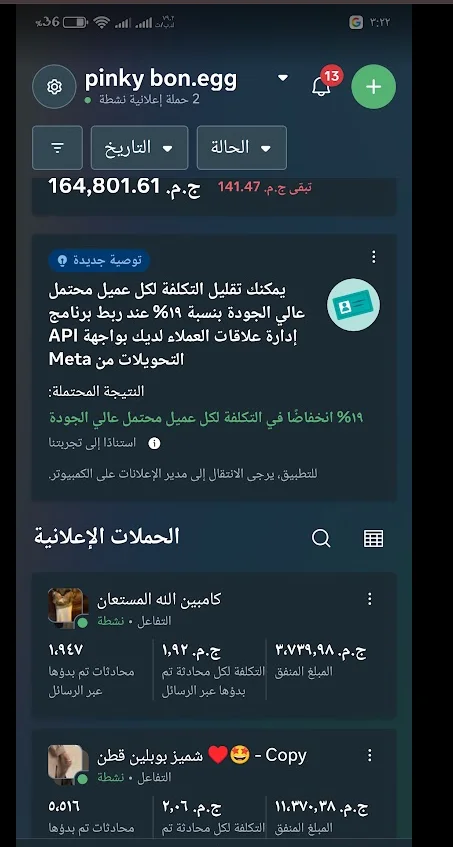
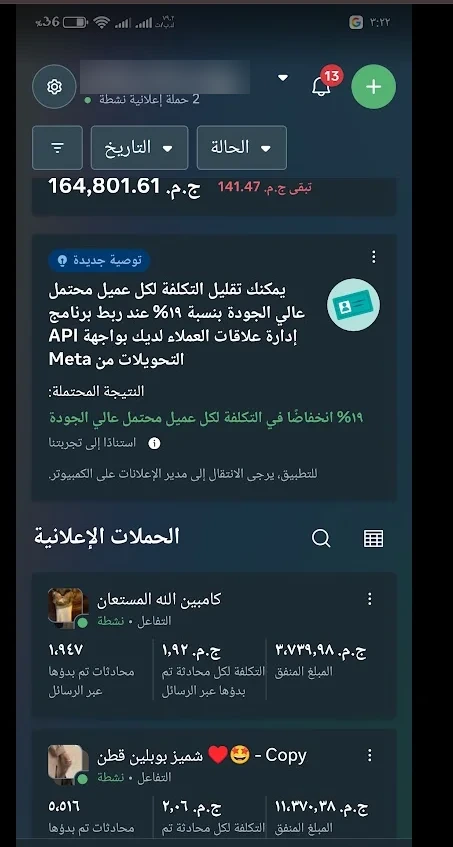
Revert the hero experiment, and put a face on the projects orbit
THE HERO GOES BACK TO ONE FLAT PHOTOGRAPH. The two-layer split and the sway
that moved the portrait against the dashboards are reverted whole, assets and
all, on Mahmoud's instruction: he wanted the head to turn, that needs four
photographs of a head and there is one, and a static composition was the right
answer rather than a convincing-looking wrong one. The pre-existing scroll
drift is untouched — it was never part of this.

THE ORBIT AND THE FOOTER HELD A PHOTOGRAPH OF HIM BEHIND A FAN OF DOLLAR
NOTES. He picked it on 2026-09-15 after being told what it cost him — it is
the centre of the section that says "brands I worked on from the inside" and
it hid his face behind cash — and he removed it on 2026-09-19. The file went
with it; `orbit-centre.webp` keeps its name and is now the standing portrait
he sent. Three things had to move with it: the image is larger in both places,
the bottom fade is gone (it existed to dissolve a cut across his torso and was
eating his shoes), and RING_SHIFT drops from 0.16 to -0.06 — 16% below centre
put the sweep at his chest when the photograph was waist-up, and at his shins
once it was a full figure.

AND THE AD ACCOUNT NAME IS OUT OF THE pinky CAPTURE. Blurred in the image, and
removed from the three places the copy repeated it: the caption under the
shot, the lightbox caption and the button's accessible name. A blurred name
with the name printed beneath it is not a redaction. Every figure in that
[…]

Changed region(s): [[0.1545, 0.0614, 0.5563, 0.1228]]

diff --git a/src/styles/index.css b/src/styles/index.css
@@ -214,8 +214,11 @@
    */
   .orbit {
     position: relative;
-    /* Tall enough for the figure in the middle, not just for the ring. */
-    height: 19rem;
+    /* Tall enough for the figure in the middle, not just for the ring. The
+       box and the figure inside it were both raised on 2026-09-19, when the
+       photograph became a standing full-length portrait rather than a
+       waist-up one and read too small at the old size. */
+    height: 22rem;
     /* The cells are transformed, not laid out, so they cannot push the box
        wider; nothing here can cause a horizontal scrollbar. */
     overflow: hidden;
@@ -280,10 +283,10 @@
 
   @media (min-width: 768px) {
     .orbit {
-      height: 23rem;
+      height: 27rem;
     }
     .orbit-photo {
-      height: 92%;
+      height: 96%;
     }
     .orbit-item {
       width: 4.5rem;
@@ -309,16 +312,16 @@
     /* Below the cells. Nothing orbits behind him any more. */
     z-index: 1;
     transform: translateX(-50%);
-    height: 78%;
+    height: 90%;
     width: auto;
     object-fit: contain;
     pointer-events: none;
     user-select: none;
-    /* The cut-out ends in a straight line across his torso. Fading the last
-       fifth of it dissolves that edge into the page instead of leaving a
-       rectangle floating in the middle of the section. */
-    -webkit-mask-image: linear-gradient(to top, transparent 0, #000 20%);
-    mask-image: linear-gradient(to top, transparent 0, #000 20%);
+    /* NO MASK HERE ANY MORE. There used to be a gradient fading the last
+       fifth of the photograph, because the old cut-out ended in a straight
+       line across his torso and needed dissolving into the page. The
+       photograph is a full standing figure now — it ends at his shoes, which
+       is an edge the eye expects — and the fade was eating his feet. */
   }
 
   /**
@@ -588,70 +591,6 @@
   :root[data-theme='dark'] .hero-photo {
     mix-blend-mode: normal;
     filter: brightness(0.9) contrast(1.02);
-  }
-
-  /**
-   * THE PORTRAIT BREATHES. The dashboards do not.
-   *
-   * Two nested elements carrying two independent cycles, because one cycle
-   * on one element is what makes an animation look like an animation: the
-   * eye finds the period and then cannot unsee it. A 23s sway and a 5.7s
-   * breath share no common multiple worth the name, so the pair only repeats
-   * itself every few minutes.
-   *
-   * THE SWAY pivots at `52% 96%` — the bottom of the figure, not its middle.
-   * A rotation about the bottom moves the head several pixels while the chest
-   * barely moves at all, which is how a person standing still actually reads.
-   * Every value is small on purpose: 0.32deg, a third of one percent. It is
-   * meant to be noticed as life rather than as movement, and the first and
-   * last keyframes are identical so the loop has no seam.
-   *
-   * WHAT THIS IS NOT. It cannot turn his head: there is one photograph of him
-   * and a photograph has one angle. Turning the head needs four separate
-   * exports of the head, which do not exist yet — see the note in Hero.tsx.
-   */
-  .hero-alive {
-    transform-origin: 52% 96%;
-    animation: hero-sway 23s cubic-bezier(0.37, 0, 0.63, 1) infinite;
-    will-change: transform;
-  }
-
-  .hero-breathe {
-    transform-origin: 52% 100%;
-    animation: hero-breathe 5.7s ease-in-out infinite;
-    will-change: transform;
-  }
-
-  @keyframes hero-sway {
-    /* rest */
-    0% { transform: rotate(0deg) translate3d(0, 0, 0); }
-    /* toward his right, and a touch up with it */
-    16% { transform: rotate(0.32deg) translate3d(0.34%, -0.1%, 0); }
-    /* back through the middle, not quite settling */
-    31% { transform: rotate(0.06deg) translate3d(0.06%, 0.02%, 0); }
-    /* toward his left */
-    48% { transform: rotate(-0.3deg) translate3d(-0.32%, -0.08%, 0); }
-    /* back through the middle again */
-    63% { transform: rotate(-0.05deg) translate3d(-0.04%, 0.04%, 0); }
-    /* the smallest settle downward, the way someone glances down */
-    80% { transform: rotate(-0.08deg) translate3d(-0.02%, 0.42%, 0); }
-    /* and home, identical to 0% so the loop cannot show a seam */
-    100% { transform: rotate(0deg) translate3d(0, 0, 0); }
-  }
-
-  @keyframes hero-breathe {
-    0% { transform: scale(1); }
-    45% { transform: scale(1.006); }
-    100% { transform: scale(1); }
-  }
-
-  /* Motion off means motion off: the portrait sits at its rest position. */
-  @media (prefers-reduced-motion: reduce) {
-    .hero-alive,
-    .hero-breathe {
-      animation: none;
-      transform: none;
-    }
   }
   .hero-blend-s {
     background: linear-gradient(to right, rgb(var(--c-cream)) 0%, transparent 18%);

diff --git a/src/components/Hero.tsx b/src/components/Hero.tsx
@@ -82,60 +82,19 @@ export default function Hero() {
           style={{ objectPosition: `${hero.focalPoint.mobile.x}% ${hero.focalPoint.mobile.y}%` }}
         />
 
-        {/*
-          TWO LAYERS ON ONE CANVAS, and only one of them moves.
-
-          The dashboards are the credibility of this page. They hold still.
-          Mahmoud is a separate transparent export sitting on a copy of the
-          same 1708x921 canvas, so both images take the same `object-cover`
-          crop and the same object-position and stay in register at every
-          width without a single breakpoint of arithmetic.
-
-          The scroll parallax moves the WRAPPER, so it still moves the whole
-          composition together exactly as it did when this was one flat image.
-          The sway and the breath live on the portrait alone.
-
-          WHAT IS NOT HERE, AND WHY. Mahmoud asked for the head to turn — front,
-          right, left, down. That needs four photographs of his head, and there
-          is one. Rotating a single portrait to fake a turn does not look like a
-          turn, it looks like a sticker being tilted, so it is not done here.
-          The four positions become possible the moment four separate
-          transparent exports of the head exist at this resolution.
-        */}
         <div className="relative hidden h-[clamp(20rem,44vw,38rem)] overflow-hidden lg:block">
-          <motion.div
-            className="absolute inset-x-0 -top-[6%] h-[112%]"
-            style={{ y: reduce ? 0 : photoY }}
-          >
-            <img
-              src={hero.image.desktopBg}
-              alt=""
-              aria-hidden
-              width={1708}
-              height={921}
-              decoding="async"
-              className="hero-photo absolute inset-0 h-full w-full object-cover"
-              style={{
-                objectPosition: `${hero.focalPoint.desktop.x}% ${hero.focalPoint.desktop.y}%`,
-              }}
-            />
-
-            {/* The breath is a separate element from the sway so the two
-                cycles stay independent — see index.css. */}
-            <div className="hero-breathe absolute inset-0">
-              <img
-                src={hero.image.desktopPerson}
-                alt={t(hero.imageAlt)}
-                width={1708}
-                height={921}
-                decoding="async"
-                className="hero-photo hero-alive absolute inset-0 h-full w-full object-cover"
-                style={{
-                  objectPosition: `${hero.focalPoint.desktop.x}% ${hero.focalPoint.desktop.y}%`,
-                }}
-              />
-            </div>
-          </motion.div>
+          <motion.img
+            src={hero.image.desktop}
+            alt={t(hero.imageAlt)}
+            width={1672}
+            height={941}
+            decoding="async"
+            className="hero-photo absolute inset-x-0 -top-[6%] h-[112%] w-full object-cover mix-blend-multiply"
+            style={{
+              objectPosition: `${hero.focalPoint.desktop.x}% ${hero.focalPoint.desktop.y}%`,
+              y: reduce ? 0 : photoY,
+            }}
+          />
         </div>
         {/* Dissolve the bottom edge of the frame into the page. */}
         <div aria-hidden className="hero-blend-b pointer-events-none absolute inset-x-0 bottom-0 h-24 lg:h-32" />

diff --git a/src/components/ProjectsOrbit.tsx b/src/components/ProjectsOrbit.tsx
@@ -42,8 +42,11 @@ import { FadeIn } from './ui/motion';
  * unreadable and would look like a carousel. Scale moves a little, and only a
  * little: 0.9 to 1.
  *
- * `RING_SHIFT` drops the ring below the box's centre, so the sweep crosses
- * his chest and never his face.
+ * `RING_SHIFT` moves the ring off the box's centre, to put the sweep across
+ * the middle of the figure rather than across his face or his feet. It was
+ * 0.16 while the photograph was a waist-up cut-out, which put the sweep at
+ * his chest; the photograph is a full standing figure now, and the same 16%
+ * put every logo down around his shins.
  *
  * It pauses whenever the pointer is inside the ring, not just on an icon: the
  * icons are moving, so waiting for a hover on one of them would make clicking
@@ -73,8 +76,13 @@ const SCALE_FRONT = 1;
 const FADE_IN = 0.42;
 const FADE_FULL = 0.78;
 
-/** How far below the box centre the ring runs, as a share of the box height. */
-const RING_SHIFT = 0.16;
+/**
+ * How far below the box centre the ring runs, as a share of the box height.
+ * Negative lifts it. A full-length portrait is bottom-aligned in the box, so
+ * its own middle sits a little above the box's; this much puts the sweep
+ * across his torso rather than his hips.
+ */
+const RING_SHIFT = -0.06;
 
 /** Smooth 0..1 ramp, so marks arrive and leave without a visible edge. */
 function ramp(x: number, a: number, b: number) {
@@ -242,20 +250,21 @@ export default function ProjectsOrbit() {
           {/* The sun. A cut-out, so there is no plate or frame around him —
               he simply stands in the middle and the work circles him.
 
-              The photo is Mahmoud's own choice (2026-09-15), made after being
-              told what it costs him: it is the centre of the section that says
-              "brands I worked on from the inside", and his face is behind the
-              notes. Swapping it is one line — personal/hero-cutout.webp is a
-              clean, face-forward cut-out already in the project. */}
+              It used to be a photograph of him holding a fan of dollar notes
+              in front of his face. Mahmoud picked that one on 2026-09-15 after
+              being told what it cost him — this is the centre of the section
+              that says "brands I worked on from the inside", and it hid his
+              face behind cash. He replaced it on 2026-09-19 with this one,
+              where his face is his face. Same filename, new photograph. */}
           <img
             className="orbit-photo"
             src="/work/personal/orbit-centre.webp"
             alt={t({
-              ar: 'محمود عاطف ماسك مروحة من ورق الدولار قدام وشه وفي إيده التانية تليفون.',
-              en: 'Mahmoud Atef holding a fan of dollar notes in front of his face, a phone in his other hand.',
+              ar: 'محمود عاطف واقف وماسك تليفونه.',
+              en: 'Mahmoud Atef standing, holding his phone.',
             })}
-            width={1100}
-            height={927}
+            width={335}
+            height={816}
             loading="lazy"
             decoding="async"
           />

diff --git a/src/content/ads-manager.ts b/src/content/ads-manager.ts
@@ -260,15 +260,23 @@ export const adsManager = {
       src: '/work/pinky/ads-campaigns-mobile.webp',
       width: 453,
       height: 847,
-      brand: 'pinky bon.egg',
+      /*
+        THE ACCOUNT NAME IS BLURRED IN THE CAPTURE, so it cannot be written
+        here either. It was in three places this field reaches — the caption
+        under the image, the lightbox caption and the button's accessible
+        name — and a blurred name with the name printed beneath it is not a
+        redaction. Every figure in the image is untouched; only the account
+        it belongs to is withheld.
+      */
+      brand: 'Client account',
       objective: 'messaging',
       caption: {
         ar: 'Meta · الحملات من الموبايل',
         en: 'Meta · campaigns, from mobile',
       },
       alt: {
-        ar: 'تطبيق Meta Ads على الموبايل لحساب pinky bon.egg: مبلغ منفق 164,801.61 ج.م، وحملتين نشطتين — واحدة بـ 1,947 محادثة بتكلفة 1.92 ج.م، والتانية بـ 5,516 محادثة بتكلفة 2.06 ج.م.',
-        en: 'The Meta Ads mobile app for the pinky bon.egg account: EGP 164,801.61 spent, and two active campaigns — one with 1,947 messaging conversations at EGP 1.92 each, the other with 5,516 at EGP 2.06 each.',
+        ar: 'تطبيق Meta Ads على الموبايل لحساب عميل: مبلغ منفق 164,801.61 ج.م، وحملتين نشطتين — واحدة بـ 1,947 محادثة بتكلفة 1.92 ج.م، والتانية بـ 5,516 محادثة بتكلفة 2.06 ج.م.',
+        en: 'The Meta Ads mobile app for a client account: EGP 164,801.61 spent, and two active campaigns — one with 1,947 messaging conversations at EGP 1.92 each, the other with 5,516 at EGP 2.06 each.',
       },
     },
     {

diff --git a/src/content/hero.ts b/src/content/hero.ts
@@ -13,26 +13,6 @@ export const hero = {
   image: {
     desktop: '/work/personal/hero-desktop.webp',
     mobile: '/work/personal/hero-mobile.webp',
-
-    /**
-     * THE SAME DESKTOP COMPOSITION, IN TWO LAYERS.
-     *
-     * `desktop` above is the flat version: Mahmoud and the dashboards baked
-     * into one rectangle, which is all there was until he supplied the
-     * dashboards on their own. It is still the mobile source and still the
-     * fallback, so nothing here is thrown away.
-     *
-     * These two are the same artwork split apart, both exported on ONE
-     * 1708x921 canvas — the background as supplied, and Mahmoud composited
-     * onto a transparent copy of it at the position he occupies. Sharing a
-     * canvas is the whole point: `object-cover` then crops both identically
-     * at every viewport, so the layers can never drift out of register and
-     * there is no per-breakpoint maths to keep in step.
-     *
-     * Hero.tsx moves only `desktopPerson`. The dashboards do not move.
-     */
-    desktopBg: '/work/personal/hero-desktop-bg.webp',
-    desktopPerson: '/work/personal/hero-desktop-person.webp',
   },
 
   focalPoint: {

diff --git a/src/content/contact.ts b/src/content/contact.ts
@@ -30,11 +30,15 @@ export const footer = {
      * him on the home page are the same photograph rather than two different
      * ones. It has a real alpha channel, which is why it can sit straight on
      * the black with no plate or frame around it.
+     *
+     * The file kept its name and changed its contents on 2026-09-19. It used
+     * to be him behind a fan of dollar notes, which he removed from the site;
+     * this is the standing portrait he sent to replace it.
      */
   photo: {
     src: '/work/personal/orbit-centre.webp',
-    width: 1100,
-    height: 927,
+    width: 335,
+    height: 816,
     alt: { ar: 'محمود عاطف', en: 'Mahmoud Atef' } satisfies Localized,
   },
 

diff --git a/src/components/Contact.tsx b/src/components/Contact.tsx
@@ -123,7 +123,7 @@ export default function Contact() {
             height={footer.photo.height}
             loading="lazy"
             decoding="async"
-            className="block h-auto w-52 md:w-64 lg:w-72"
+            className="block h-auto w-64 md:w-80 lg:w-96"
           />
         </FadeIn>
       </div>
